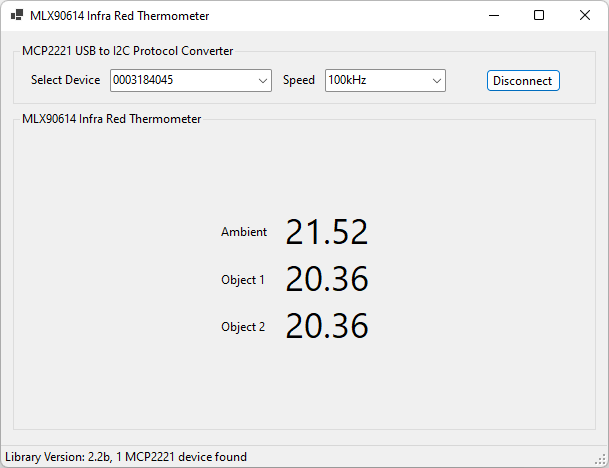
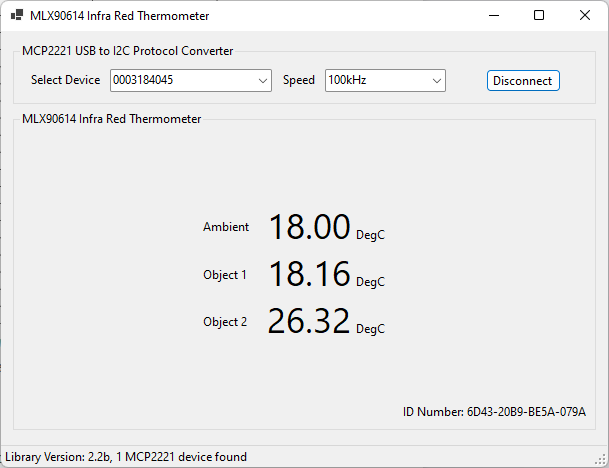
Added ID Number, Closed MCP2221 Handle on Disconnect. Added Unit Labels.

Changed region(s): [[0.312, 0.4487, 0.624, 0.6282], [0.3432, 0.6581, 0.624, 0.7479], [0.6552, 0.8675, 0.9672, 0.8974]]

diff --git a/MLX90614/MainForm.Designer.cs b/MLX90614/MainForm.Designer.cs
@@ -39,9 +39,13 @@
             this.Label_Speed = new System.Windows.Forms.Label();
             this.cbSpeed = new System.Windows.Forms.ComboBox();
             this.gbMLX90614 = new System.Windows.Forms.GroupBox();
-            this.label3 = new System.Windows.Forms.Label();
-            this.label2 = new System.Windows.Forms.Label();
-            this.label1 = new System.Windows.Forms.Label();
+            this.labelUnitsObject2 = new System.Windows.Forms.Label();
+            this.labelUnitsObject1 = new System.Windows.Forms.Label();
+            this.labelUnitsAmbient = new System.Windows.Forms.Label();
+            this.lIDNumber = new System.Windows.Forms.Label();
+            this.llabelNameObject2 = new System.Windows.Forms.Label();
+            this.lableNameObject1 = new System.Windows.Forms.Label();
+            this.lableNameAmbient = new System.Windows.Forms.Label();
             this.labelTempObj2 = new System.Windows.Forms.Label();
             this.labelTempObj1 = new System.Windows.Forms.Label();
             this.labelTempAmb = new System.Windows.Forms.Label();
@@ -134,9 +138,13 @@
             // 
             // gbMLX90614
             // 
-            this.gbMLX90614.Controls.Add(this.label3);
-            this.gbMLX90614.Controls.Add(this.label2);
-            this.gbMLX90614.Controls.Add(this.label1);
+            this.gbMLX90614.Controls.Add(this.labelUnitsObject2);
+            this.gbMLX90614.Controls.Add(this.labelUnitsObject1);
+            this.gbMLX90614.Controls.Add(this.labelUnitsAmbient);
+            this.gbMLX90614.Controls.Add(this.lIDNumber);
+            this.gbMLX90614.Controls.Add(this.llabelNameObject2);
+            this.gbMLX90614.Controls.Add(this.lableNameObject1);
+            this.gbMLX90614.Controls.Add(this.lableNameAmbient);
             this.gbMLX90614.Controls.Add(this.labelTempObj2);
             this.gbMLX90614.Controls.Add(this.labelTempObj1);
             this.gbMLX90614.Controls.Add(this.labelTempAmb);
@@ -147,38 +155,75 @@
             this.gbMLX90614.TabStop = false;
             this.gbMLX90614.Text = "MLX90614 Infra Red Thermometer";
             // 
-            // label3
+            // labelUnitsObject2
             // 
-            this.label3.AutoSize = true;
-            this.label3.Location = new System.Drawing.Point(205, 208);
-            this.label3.Name = "label3";
-            this.label3.Size = new System.Drawing.Size(51, 15);
-            this.label3.TabIndex = 1;
-            this.label3.Text = "Object 2";
+            this.labelUnitsObject2.AutoSize = true;
+            this.labelUnitsObject2.Location = new System.Drawing.Point(340, 210);
+            this.labelUnitsObject2.Name = "labelUnitsObject2";
+            this.labelUnitsObject2.Size = new System.Drawing.Size(36, 15);
+            this.labelUnitsObject2.TabIndex = 10;
+            this.labelUnitsObject2.Text = "DegC";
             // 
-            // label2
+            // labelUnitsObject1
             // 
-            this.label2.AutoSize = true;
-            this.label2.Location = new System.Drawing.Point(205, 161);
-            this.label2.Name = "label2";
-            this.label2.Size = new System.Drawing.Size(51, 15);
-            this.label2.TabIndex = 2;
-            this.label2.Text = "Object 1";
+            this.labelUnitsObject1.AutoSize = true;
+            this.labelUnitsObject1.Location = new System.Drawing.Point(340, 163);
+            this.labelUnitsObject1.Name = "labelUnitsObject1";
+            this.labelUnitsObject1.Size = new System.Drawing.Size(36, 15);
+            this.labelUnitsObject1.TabIndex = 9;
+            this.labelUnitsObject1.Text = "DegC";
             // 
-            // label1
+            // labelUnitsAmbient
             // 
-            this.label1.AutoSize = true;
-            this.label1.Location = new System.Drawing.Point(205, 113);
-            this.label1.Name = "label1";
-            this.label1.Size = new System.Drawing.Size(53, 15);
-            this.label1.TabIndex = 3;
-            this.label1.Text = "Ambient";
+            this.labelUnitsAmbient.AutoSize = true;
+            this.labelUnitsAmbient.Location = new System.Drawing.Point(340, 116);
+            this.labelUnitsAmbient.Name = "labelUnitsAmbient";
+            this.labelUnitsAmbient.Size = new System.Drawing.Size(36, 15);
+            this.labelUnitsAmbient.TabIndex = 8;
+            this.labelUnitsAmbient.Text = "DegC";
+            // 
+            // lIDNumber
+            // 
+            this.lIDNumber.Location = new System.Drawing.Point(341, 293);
+            this.lIDNumber.Name = "lIDNumber";
+            this.lIDNumber.Size = new System.Drawing.Size(236, 15);
+            this.lIDNumber.TabIndex = 7;
+            this.lIDNumber.Text = "lIDNumber";
+            this.lIDNumber.TextAlign = System.Drawing.ContentAlignment.TopRight;
+            this.lIDNumber.Visible = false;
+            // 
+            // llabelNameObject2
+            // 
+            this.llabelNameObject2.AutoSize = true;
+            this.llabelNameObject2.Location = new System.Drawing.Point(187, 203);
+            this.llabelNameObject2.Name = "llabelNameObject2";
+            this.llabelNameObject2.Size = new System.Drawing.Size(51, 15);
+            this.llabelNameObject2.TabIndex = 1;
+            this.llabelNameObject2.Text = "Object 2";
+            // 
+            // lableNameObject1
+            // 
+            this.lableNameObject1.AutoSize = true;
+            this.lableNameObject1.Location = new System.Drawing.Point(187, 156);
+            this.lableNameObject1.Name = "lableNameObject1";
+            this.lableNameObject1.Size = new System.Drawing.Size(51, 15);
+            this.lableNameObject1.TabIndex = 2;
+            this.lableNameObject1.Text = "Object 1";
+            // 
+            // lableNameAmbient
+            // 
+            this.lableNameAmbient.AutoSize = true;
+            this.lableNameAmbient.Location = new System.Drawing.Point(187, 108);
+            this.lableNameAmbient.Name = "lableNameAmbient";
+            this.lableNameAmbient.Size = new System.Drawing.Size(53, 15);
+            this.lableNameAmbient.TabIndex = 3;
+            this.lableNameAmbient.Text = "Ambient";
             // 
             // labelTempObj2
             // 
             this.labelTempObj2.AutoSize = true;
             this.labelTempObj2.Font = new System.Drawing.Font("Segoe UI", 26.25F, System.Drawing.FontStyle.Regular, System.Drawing.GraphicsUnit.Point);
-            this.labelTempObj2.Location = new System.Drawing.Point(264, 189);
+            this.labelTempObj2.Location = new System.Drawing.Point(246, 184);
             this.labelTempObj2.Name = "labelTempObj2";
             this.labelTempObj2.Size = new System.Drawing.Size(104, 47);
             this.labelTempObj2.TabIndex = 4;
@@ -188,7 +233,7 @@
             // 
             this.labelTempObj1.AutoSize = true;
             this.labelTempObj1.Font = new System.Drawing.Font("Segoe UI", 26.25F, System.Drawing.FontStyle.Regular, System.Drawing.GraphicsUnit.Point);
-            this.labelTempObj1.Location = new System.Drawing.Point(264, 142);
+            this.labelTempObj1.Location = new System.Drawing.Point(246, 137);
             this.labelTempObj1.Name = "labelTempObj1";
             this.labelTempObj1.Size = new System.Drawing.Size(104, 47);
             this.labelTempObj1.TabIndex = 5;
@@ -198,7 +243,7 @@
             // 
             this.labelTempAmb.AutoSize = true;
             this.labelTempAmb.Font = new System.Drawing.Font("Segoe UI", 26.25F, System.Drawing.FontStyle.Regular, System.Drawing.GraphicsUnit.Point);
-            this.labelTempAmb.Location = new System.Drawing.Point(264, 95);
+            this.labelTempAmb.Location = new System.Drawing.Point(246, 90);
             this.labelTempAmb.Name = "labelTempAmb";
             this.labelTempAmb.Size = new System.Drawing.Size(104, 47);
             this.labelTempAmb.TabIndex = 6;
@@ -237,11 +282,15 @@
         private Label Label_Speed;
         private ComboBox cbSpeed;
         private GroupBox gbMLX90614;
-        private Label label3;
-        private Label label2;
-        private Label label1;
+        private Label llabelNameObject2;
+        private Label lableNameObject1;
+        private Label lableNameAmbient;
         private Label labelTempObj2;
         private Label labelTempObj1;
         private Label labelTempAmb;
+        private Label lIDNumber;
+        private Label labelUnitsObject2;
+        private Label labelUnitsObject1;
+        private Label labelUnitsAmbient;
     }
 }

diff --git a/MLX90614/MainForm.cs b/MLX90614/MainForm.cs
@@ -30,7 +30,6 @@ namespace TestApp1
         private void GetMCP2221Devices()
         {
             uint numberOfDevices = 0;
-            uint mcpIndex = 0;
 
             String libVersion = MCP2221.M_Mcp2221_GetLibraryVersion();
 
@@ -103,12 +102,35 @@ namespace TestApp1
             i2cTxData[0] = Command;     
             result = MCP2221.M_Mcp2221_I2cWriteNoStop(mcpHandle, bytesToWrite, slaveAddress, 1, i2cTxData);
 
-            const int bytesToRead = 2;
+            const int bytesToRead = 3;
             byte[] i2cRxData = new byte[bytesToRead];
             result = MCP2221.M_Mcp2221_I2cReadRestart(mcpHandle, bytesToRead, slaveAddress, 1, i2cRxData);
 
             int value = (i2cRxData[1] << 8) + i2cRxData[0];
             return(value);
+        }
+
+        private void GetIDNumber(IntPtr mcpHandle)
+        {
+            ushort[] Id_Number = new ushort[4];
+
+            for (byte i = 0; i < 4; i++)
+            {
+                const int slaveAddress = 0x5A;
+                const int bytesToWrite = 1;
+                byte[] i2cTxData = new byte[bytesToWrite];
+                i2cTxData[0] = (byte)(0x2C + i);
+                result = MCP2221.M_Mcp2221_I2cWriteNoStop(mcpHandle, bytesToWrite, slaveAddress, 1, i2cTxData);
+
+                const int bytesToRead = 3;
+                byte[] i2cRxData = new byte[bytesToRead];
+                result = MCP2221.M_Mcp2221_I2cReadRestart(mcpHandle, bytesToRead, slaveAddress, 1, i2cRxData);
+
+                Id_Number[i] = (ushort)((i2cRxData[1] << 8) + i2cRxData[0]);
+            }
+
+            lIDNumber.Text = "ID Number: " + Id_Number[0].ToString("X4") + "-" + Id_Number[1].ToString("X4") + "-" + Id_Number[2].ToString("X4") + "-" + Id_Number[3].ToString("X4");
+            lIDNumber.Visible = true;
         }
 
         private void timer1_Tick(object sender, EventArgs e)
@@ -146,11 +168,19 @@ namespace TestApp1
                 
                 timer1.Enabled = true;
                 bConnect.Text = "Disconnect";
+
+                GetIDNumber(mcpHandle);
             } 
             else
             {
                 timer1.Enabled = false;
                 bConnect.Text = "Connect";
+
+                result = MCP2221.M_Mcp2221_Close(mcpHandle);
+                if (result > 0)
+                {
+                    statusStrip1.Items[0].Text = "Error closing handle during device enumeration";
+                }
             }
         }
     }
